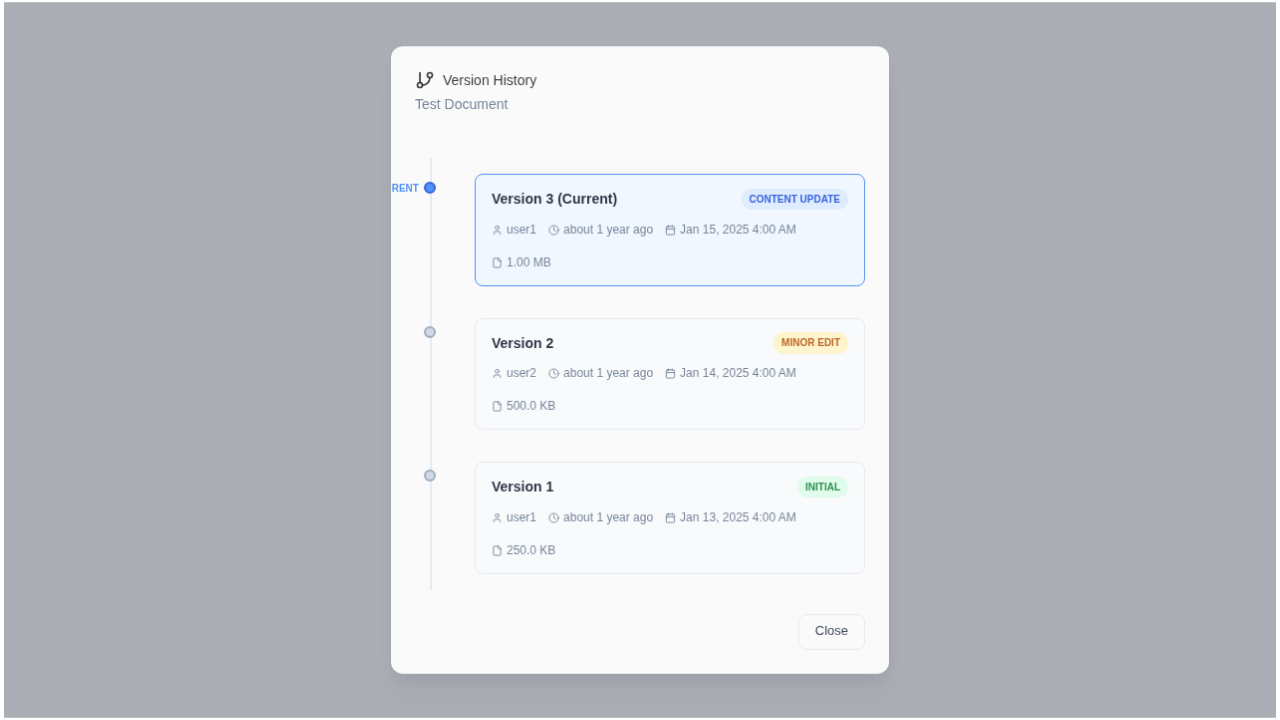
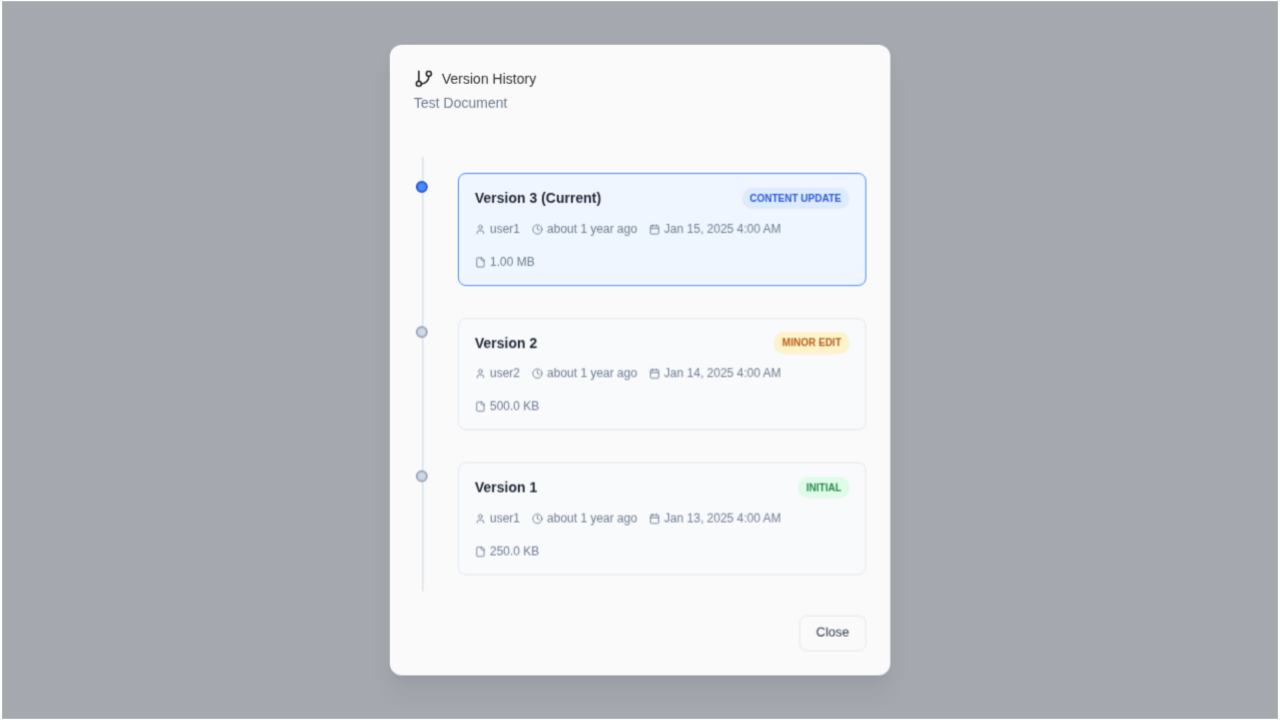
Fix VersionHistoryPanel timeline clipping by removing overflow pseudo-element

diff --git a/frontend/src/components/documents/VersionHistoryPanel.tsx b/frontend/src/components/documents/VersionHistoryPanel.tsx
@@ -73,13 +73,13 @@ const PanelContainer = styled.div`
 
 const Timeline = styled.div`
   position: relative;
-  padding-left: 40px;
+  padding-left: 24px;
   margin-top: 20px;
 
   &::before {
     content: "";
     position: absolute;
-    left: 15px;
+    left: 8px;
     top: 0;
     bottom: 0;
     width: 2px;
@@ -95,7 +95,7 @@ const TimelineItem = styled.div<{ $isCurrent: boolean }>`
   &::before {
     content: "";
     position: absolute;
-    left: -31px;
+    left: -22px;
     top: 24px;
     width: 12px;
     height: 12px;
@@ -103,21 +103,6 @@ const TimelineItem = styled.div<{ $isCurrent: boolean }>`
     background: ${(props) => (props.$isCurrent ? "#3b82f6" : "#cbd5e1")};
     border: 2px solid ${(props) => (props.$isCurrent ? "#1d4ed8" : "#94a3b8")};
   }
-
-  ${(props) =>
-    props.$isCurrent &&
-    `
-    &::after {
-      content: "Current";
-      position: absolute;
-      left: -85px;
-      top: 22px;
-      font-size: 10px;
-      font-weight: 600;
-      color: #3b82f6;
-      text-transform: uppercase;
-    }
-  `}
 `;
 
 const VersionCard = styled.div<{ $isCurrent: boolean }>`
